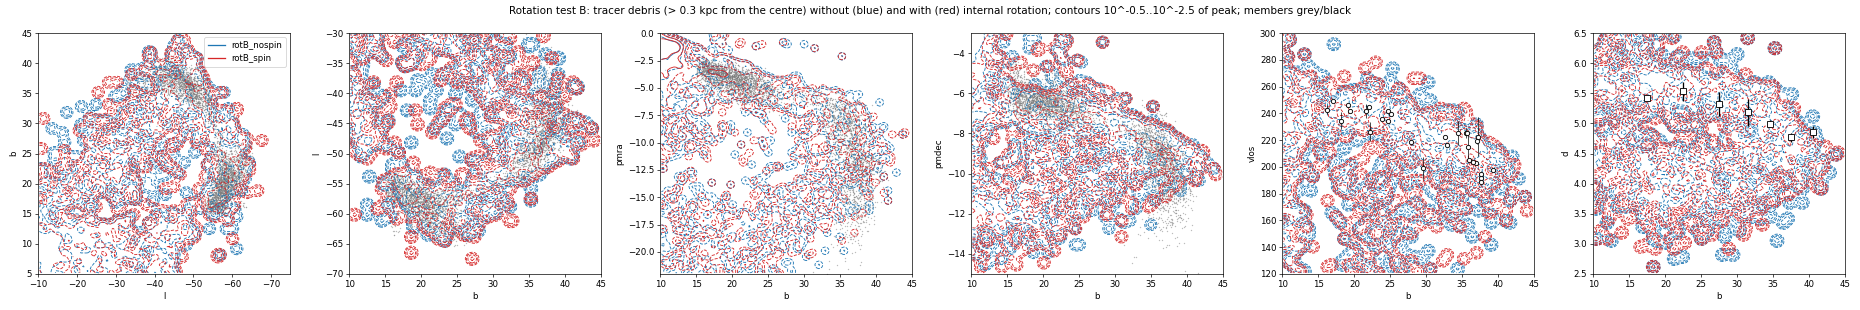
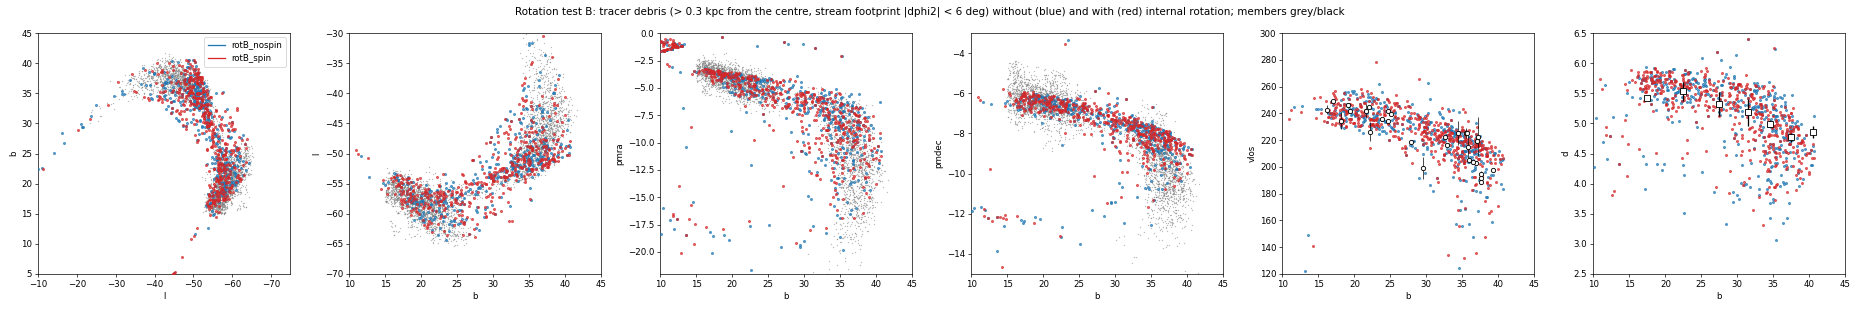
Fix rotation test B plots: restrict to the stream footprint (previous version dominated by off-stream debris)

diff --git a/bin/streams/compare_spin_tracers.py b/bin/streams/compare_spin_tracers.py
@@ -3,7 +3,8 @@
 without and with internal rotation (Lynden-Bell flips, fitted spin). Unbound debris (> 0.3 kpc from the centre today) in the
 observable space and along phi1 of the chord great-circle frame.
 Figures: plots/rotB_observables.png (log-density contours of both runs, members as points; same panels as the KDE plots);
-plots/rotB_along_phi1.png (per 1-deg phi1 bin: tracer counts, medians of dphi2, pmra, pmdec, v_los, d; members' medians).
+plots/rotB_along_phi1.png (per 2-deg phi1 bin, debris in the stream footprint |dphi2| < 6 deg only: tracer counts, medians of dphi2,
+pmra, pmdec, v_los, d with bootstrap errors; members' medians with the same cut).
 Numbers: results/plot_data/rotB_compare.json.
 Usage: python bin/streams/compare_spin_tracers.py [run_a run_b]
 """
@@ -26,6 +27,9 @@ for r in runs:
     k = np.linalg.norm(xv[:, :3]-c[:3], axis=1) > 0.3; o = observables(xv[k])
     m = dict(l=w(o["l"]), b=o["b"], pmra=o["pmra"], pmdec=o["pmdec"], vlos=o["vlos"], d=o["dist"]); m["u"], m["x"] = project_gc(m["l"], m["b"], GC)
     M[r] = m; print(r, "unbound tracers", k.sum(), "of", len(k))
+FP = 6.
+for r in runs:                                                       # stream footprint only (other wraps / leading arm excluded)
+    M[r] = {q: v[np.abs(M[r]["x"]) < FP] for q, v in M[r].items()}
 PANELS = (("l", "b", (-75, -10), (5, 45)), ("b", "l", (10, 45), (-70, -30)), ("b", "pmra", (10, 45), (-22, 0)),
           ("b", "pmdec", (10, 45), (-15, -3)), ("b", "vlos", (10, 45), (120, 300)), ("b", "d", (10, 45), (2.5, 6.5)))
 fig, ax = plt.subplots(1, 6, figsize=(30, 5))
@@ -37,24 +41,27 @@ for a, (xq, yq, xr, yr) in zip(ax, PANELS):
                    yerr=[0]+[5.43*c_["d_ratio"]*np.log(10)/5*c_["dm_err"] for c_ in cmd], fmt="s", color="k", mfc="w", ms=6, zorder=5)
     else:
         a.plot(d[xq], d[yq], ".", color="0.5", ms=1.2, alpha=0.5, zorder=1)
-    for r, col in zip(runs, ("C0", "C3")):
-        H, xe, ye = np.histogram2d(M[r][xq], M[r][yq], bins=(120, 120), range=(sorted(xr), yr))
-        from scipy.ndimage import gaussian_filter
-        H = gaussian_filter(H, 1.2).T; lv = np.log10(H+1e-9); v = lv.max()
-        a.contour(0.5*(xe[1:]+xe[:-1]), 0.5*(ye[1:]+ye[:-1]), lv, levels=v-np.array([2.5, 2., 1.5, 1., 0.5]), colors=col, linewidths=1.)
+    for r, col in zip(runs, ("C0", "C3")):            # tracers are few (~450 in the footprint): points, not density contours
+        a.plot(M[r][xq], M[r][yq], "o", color=col, ms=2.5, alpha=0.7, zorder=3)
     a.set_xlim(*(xr[::-1] if xq == "l" else xr)); a.set_ylim(*yr); a.set_xlabel(xq); a.set_ylabel(yq)
 ax[0].plot([], [], "C0", label=runs[0]); ax[0].plot([], [], "C3", label=runs[1]); ax[0].legend()
-fig.suptitle("Rotation test B: tracer debris (> 0.3 kpc from the centre) without (blue) and with (red) internal rotation; contours 10^-0.5..10^-2.5 of peak; members grey/black")
+fig.suptitle("Rotation test B: tracer debris (> 0.3 kpc from the centre, stream footprint |dphi2| < 6 deg) without (blue) and with (red) internal rotation; members grey/black")
 fig.tight_layout(); fig.savefig(ROOT/"plots/rotB_observables.png", dpi=62)
-edges = np.arange(np.floor(du.min()), np.ceil(du.max())+1, 1.); cen = 0.5*(edges[1:]+edges[:-1]); Q = ["x", "pmra", "pmdec", "vlos", "d"]
+edges = np.arange(np.floor(du.min()), np.ceil(du.max())+2, 2.)
+dsel = np.abs(dx) < FP; cen = 0.5*(edges[1:]+edges[:-1]); Q = ["x", "pmra", "pmdec", "vlos", "d"]
 fig, ax = plt.subplots(1, 6, figsize=(30, 4.5)); out = dict(phi1=cen.tolist())
 for r, col in zip(runs, ("C0", "C3")):
     m = M[r]; ib = np.digitize(m["u"], edges)-1; n = np.bincount(ib[(ib >= 0) & (ib < len(cen))], minlength=len(cen))
     ax[0].plot(cen, n, col, label=r); out[r] = dict(n=n.tolist())
     for a, q in zip(ax[1:], Q):
-        med = [np.median(m[q][ib == j]) if (ib == j).sum() >= 10 else np.nan for j in range(len(cen))]
-        a.plot(cen, med, col); out[r][q] = [float(v) for v in med]
-dib = np.digitize(du, edges)-1
+        med, err = [], []
+        for j in range(len(cen)):
+            v = m[q][ib == j]
+            if len(v) < 10:
+                med.append(np.nan); err.append(np.nan); continue
+            med.append(np.median(v)); err.append(np.std([np.median(np.random.default_rng(j).choice(v, len(v))) for _ in range(200)]))
+        a.errorbar(cen+(0.15 if col == "C3" else -0.15), med, yerr=err, color=col, fmt="o-", ms=3, lw=1); out[r][q] = [float(v) for v in med]
+dib = np.where(dsel, np.digitize(du, edges)-1, -1)
 for a, q in zip(ax[1:], Q):
     if q == "d": continue
     v = d["v"] if q == "vlos" else d[q]
@@ -62,12 +69,12 @@ for a, q in zip(ax[1:], Q):
     a.plot(cen, med, "ko", ms=4, label="members (median)")
 for a, q in zip(ax, ["tracers per 1-deg bin"]+Q):
     a.set_xlabel(r"$\phi_1$ [deg]"); a.set_ylabel(q)
-ax[0].set_yscale("log"); ax[0].legend(); ax[1].legend()
-fig.suptitle("Rotation test B along phi1 (chord frame): blue no spin, red spin; black = members' medians"); fig.tight_layout()
+ax[0].legend(); ax[1].legend()
+fig.suptitle("Rotation test B along phi1 (chord frame), stream footprint |dphi2| < 6 deg only: blue no spin, red spin (bootstrap errors); black = members' medians"); fig.tight_layout()
 fig.savefig(ROOT/"plots/rotB_along_phi1.png", dpi=70)
 (ROOT/"results/plot_data/rotB_compare.json").write_text(json.dumps(out))
 a0, a1 = out[runs[0]], out[runs[1]]
-for j in range(len(cen)):
-    if a0["n"][j] >= 10 and a1["n"][j] >= 10:
+for j in []:
+    if True:
         print(f"phi1 {cen[j]:5.1f}: n {a0['n'][j]:5d} -> {a1['n'][j]:5d}; d(dphi2) {a1['x'][j]-a0['x'][j]:+.2f}; d(pmra) {a1['pmra'][j]-a0['pmra'][j]:+.3f}; "
               f"d(pmdec) {a1['pmdec'][j]-a0['pmdec'][j]:+.3f}; d(vlos) {a1['vlos'][j]-a0['vlos'][j]:+.1f}")

diff --git a/JOURNAL.md b/JOURNAL.md
@@ -7073,3 +7073,9 @@ grid4 with cluster rotation finished (448 points, paired with grid4; results/plo
 lnL(spin) - lnL(no spin) median +3, 16-84% [-93, +100] (= spray noise at 1x); rank correlation 0.997; same best point
 (34.5, 16, 1.4, 5.6); profiles: angle 20/24/28 = -300/-962/-1476 (no spin -296/-806/-1447); Omega_b peak 34.5. Rotation (this
 prescription) does not change the fit or the low-angle preference.
+Correction: the first versions of plots/rotB_along_phi1.png and rotB_observables.png (commit bb3144d) were wrong for the purpose:
+medians/contours over all unbound tracers, dominated by debris far from the observed stream (other wraps, leading arm; dphi2 ~ -45).
+Redone with the stream footprint |dphi2| < 6 deg (2-deg phi1 bins, bootstrap errors; tracers as points): spin and no spin
+overlap everywhere. Model (20 deg, Omega_b 34.5, amp 1.2) vs members: pmra, v_los, dphi2 follow the members to phi1 ~ 19; pmdec
+is 0.3-0.5 mas/yr less negative than the members at phi1 5-21; beyond phi1 ~ 21 the tracer debris thins out (counts drop from
+~50 to ~5 per 2-deg bin) and does not reach the members' steep knee (members pmdec -10..-12, pmra -13..-18 at phi1 23-27).
